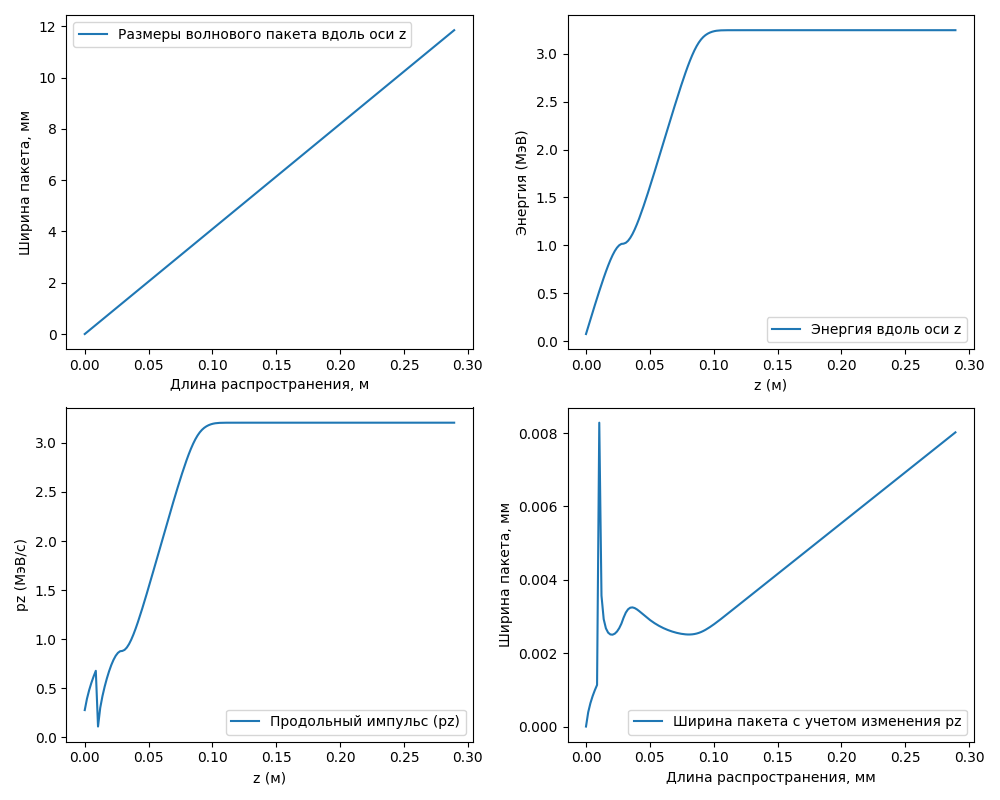
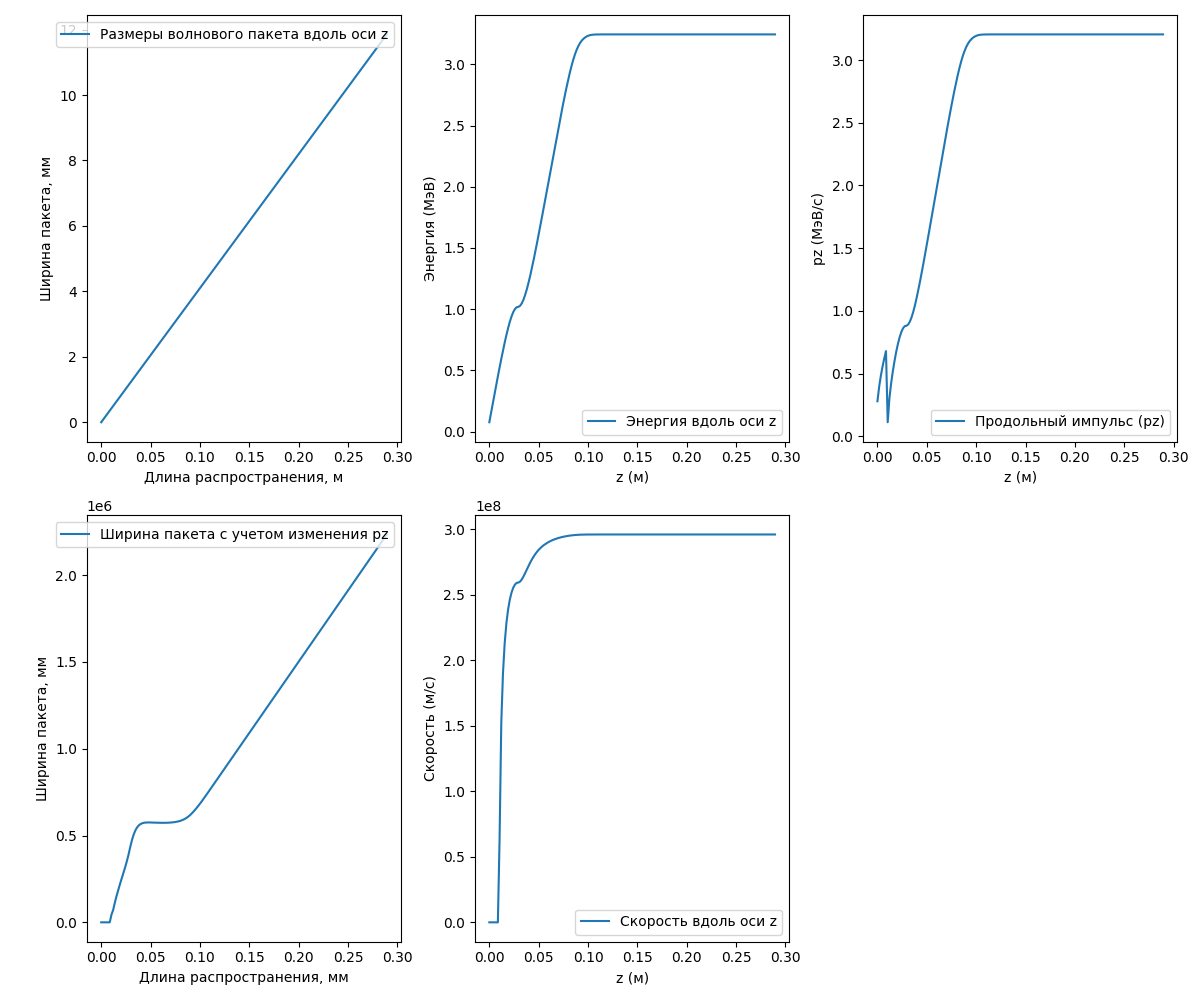
Добавил в test polygon профиль скорости, проинтегрировал скорость по z, получил значения z для pz с учетом отстования координаты импульса от пространственной.

diff --git a/test polygon.py b/test polygon.py
@@ -2,7 +2,6 @@ import numpy as np
 import matplotlib.pyplot as plt
 import scipy.constants as const
 from scipy import integrate as integ
-from scipy.interpolate import CubicSpline
 
 # Предварительно вычисляем константы
 HC_MeV_mm = 6.582 * 10**(-22) * 2.998 * 10**(11)  # Планк x скорость света в МэВ мм
@@ -18,12 +17,12 @@ e = const.e
 phi = np.pi / 2
 W_MeV = 4.6e-6
 f = 2856e6  # частота
-t = 10e-12  # время
+t = 350e-12  # время
 
 # Функция для расчета продольного импульса и скорости
 def longitudinal_momentum(W_MeV, Me_MeV, c):
     if W_MeV <= Me_MeV:
-        pz_MeV = np.sqrt(Me_MeV - W_MeV)
+        pz_MeV = np.sqrt(2 * Me_MeV * W_MeV)
         v = pz_MeV / (Me_MeV * c)
     elif W_MeV <= 10 * Me_MeV:
         under_sqrt = W_MeV**2 - Me_MeV**2
@@ -44,9 +43,7 @@ def transverse_momentum(r0):
 
 # Длина волны де Бройля
 def de_broglie_wavelength(pz):
-    if pz == 0:
-        return np.nan  # избегаем деления на ноль
-    return HC_MeV_mm / pz
+    return HC_MeV_mm / pz if pz > 0 else np.nan
 
 # Средний начальный размер пакета, мм
 def rho_mid(r0, M):
@@ -54,7 +51,7 @@ def rho_mid(r0, M):
 
 # Угол раскрытия электрона
 def theta(pt, pz):
-    return pt / pz * 180 / np.pi
+    return pt / pz * 180 / np.pi if pz > 0 else np.nan
 
 # Расплывание в ближней зоне
 def fresnel_zone_packet_width(z, ldb, rho_mid0, M):
@@ -76,8 +73,6 @@ def real_packet_width(z_values, W_MeV, r0, n, l):
     M = fundamental_mode(n, l)
     pz, _ = longitudinal_momentum(W_MeV, ME_MeV, c)
     ldb = de_broglie_wavelength(pz)
-    if np.isnan(ldb):
-        return np.nan * np.ones_like(z_values)
     rho_mid0 = rho_mid(r0, M)
     ksi = coherence_length(rho_mid0)  # начальная длина когерентности
 
@@ -87,25 +82,28 @@ def real_packet_width(z_values, W_MeV, r0, n, l):
             width.append(fresnel_zone_packet_width(z, ldb, rho_mid0, M))
         else:
             width.append(far_field_packet_width(z, ldb, rho_mid0, M))
-
+    
     return width
 
-# Расчет ширины пакета для заданной длины с учетом изменения pz
-def real_packet_width_with_pz(z_values, pz_profile, r0, n, l):
+# Расчет ширины пакета для заданной длины с учетом изменения pz  
+def real_packet_width_with_pz(z_values, pz_profile, v_profile, r0, n, l):
     M = fundamental_mode(n, l)
+
+    # Интегрируем профиль скорости по z для создания new_z
+    new_z = integ.cumtrapz(v_profile, z_values, initial=0)  # Интегрирование скорости по z
     ldb_values = [de_broglie_wavelength(pz) for pz in pz_profile]
-    if np.isnan(ldb_values).any():
-        return np.nan * np.ones_like(z_values)
     rho_mid0 = rho_mid(r0, M)
     ksi = coherence_length(rho_mid0)  # начальная длина когерентности
 
     width_with_pz = []
-    for z, ldb in zip(z_values, ldb_values):
-        if z <= ksi:
+    for z, ldb in zip(new_z, ldb_values):
+        if np.isnan(ldb):
+            width_with_pz.append(np.nan)
+        elif z <= ksi:
             width_with_pz.append(fresnel_zone_packet_width(z, ldb, rho_mid0, M))
         else:
             width_with_pz.append(far_field_packet_width(z, ldb, rho_mid0, M))
-
+    
     return width_with_pz
 
 # Расчет расстояния для заданной ширины пакета
@@ -113,103 +111,86 @@ def distance_for_a_width(r0, r_fin, energy, n, l):
     M = fundamental_mode(n, l)
     pz, _ = longitudinal_momentum(energy, ME_MeV, const.c)
     ldb = de_broglie_wavelength(pz)
-    if np.isnan(ldb):
-        return np.nan
     rho_mid0 = rho_mid(r0, M)
     return (2 * np.pi * r_fin * rho_mid0) / (ldb * M)
-
-# Построение графиков
-def plot_graph(x, y, xlabel, ylabel, title, filename=None):
-    plt.plot(x, y, label=title)
-    plt.xlabel(xlabel)
-    plt.ylabel(ylabel)
-    plt.legend()
-    if filename:
-        plt.savefig(filename, dpi=600)
-
-# Функция для построения общей картинки со всеми графиками
-def plot_all_graphs(z, r_mid, energy_profile, pz_profile, r_mid_with_pz):
-    plt.figure(figsize=(10, 8))
+   
+# Функция для построения общей картинки со всеми графиками (добавлен новый график)
+def plot_all_graphs(z, r_mid, energy_profile, pz_profile, r_mid_with_pz, v_profile):
+    plt.figure(figsize=(12, 10))
 
     # График 1: Размеры волнового пакета вдоль оси z
-    plt.subplot(2, 2, 1)
+    plt.subplot(2, 3, 1)
     plt.plot(z, r_mid, label="Размеры волнового пакета вдоль оси z")
     plt.xlabel("Длина распространения, м")
     plt.ylabel("Ширина пакета, мм")
     plt.legend()
 
     # График 2: Энергия вдоль оси z
-    plt.subplot(2, 2, 2)
+    plt.subplot(2, 3, 2)
     plt.plot(z, energy_profile, label="Энергия вдоль оси z")
     plt.xlabel('z (м)')
     plt.ylabel('Энергия (МэВ)')
     plt.legend()
 
     # График 3: Продольный импульс (pz)
-    plt.subplot(2, 2, 3)
+    plt.subplot(2, 3, 3)
     plt.plot(z, pz_profile, label="Продольный импульс (pz)")
     plt.xlabel('z (м)')
     plt.ylabel('pz (МэВ/c)')
     plt.legend()
 
     # График 4: Ширина пакета с учетом изменения pz
-    plt.subplot(2, 2, 4)
+    plt.subplot(2, 3, 4)
     plt.plot(z, r_mid_with_pz, label="Ширина пакета с учетом изменения pz")
     plt.xlabel("Длина распространения, мм")
     plt.ylabel("Ширина пакета, мм")
     plt.legend()
 
+    # График 5: Скорость вдоль оси z
+    plt.subplot(2, 3, 5)
+    plt.plot(z, v_profile, label="Скорость вдоль оси z")
+    plt.xlabel('z (м)')
+    plt.ylabel('Скорость (м/с)')
+    plt.legend()
+
     plt.tight_layout()
+    plt.savefig("result.png")
     plt.show()
 
 # Основной блок
 r0 = 1e-9  # размер пакета в м
 n = 3
 l = 1
+step_of_z = (z[1] - z[0])
+length = z[-1]
 
 # Расчет импульса и скорости
 pz_MeV, v = longitudinal_momentum(W_MeV, ME_MeV, c)
 
-print(f"Initial pz_MeV: {pz_MeV}")
-print(f"Initial velocity: {v}")
-
 if np.isnan(v) or v == 0:
     print("Ошибка: скорость v равна NaN или нулю.")
-    dE = energy_change_profile = pz_profile = np.nan * np.ones_like(z)
+    dE = energy_change_profile = pz_profile = v_profile = np.nan * np.ones_like(z)
 else:
     denominator = f * np.mean(z) / (2 * v) if v != 0 else 1
     T = np.sin(denominator) / denominator if denominator != 0 else 0
-
+    
     try:
-        # Интерполяция кубическими сплайнами
-        cs = CubicSpline(z, Ez)
-        z_interp = np.linspace(z.min(), z.max(), num=1000)
-        Ez_interp = cs(z_interp)
-        
-        # Интеграция методом трапеций по интерполированным данным
-        integral_result = integ.trapz(Ez_interp, z_interp)
+        integral_result = integ.simps(Ez, z)
         dE = e * integral_result * T * np.cos(f * t + phi)
-
-        delta_z = z[1] - z[0]
+        
+        delta_z = (z[1] - z[0])
         energy_profile = np.cumsum(Ez * delta_z) + W_MeV
+        
+        energy_change_profile = energy_profile - W_MeV + dE
+        pz_profile = np.array([longitudinal_momentum(E, ME_MeV, c)[0] for E in energy_profile])
+        v_profile = np.array([longitudinal_momentum(E, ME_MeV, c)[1] for E in energy_profile])
+        
+    except Exception as ex:
+        print(f"Ошибка при вычислении интеграла: {ex}")
+        dE = energy_change_profile = pz_profile = v_profile = np.nan * np.ones_like(z)
 
-        energy_change_profile = energy_profile - W_MeV
-        pz_profile = [longitudinal_momentum(e, ME_MeV, c)[0] for e in energy_profile]
+r_mid = real_packet_width(z, W_MeV, r0, n, l)
+r_mid_with_pz = real_packet_width_with_pz(z, pz_profile, v_profile, r0, n, l)
 
-        # Расчет размеров волнового пакета
-        r_mid = real_packet_width(z, W_MeV, r0, n, l)
-        r_mid_with_pz = real_packet_width_with_pz(z, pz_profile, r0, n, l)
-
-        # Проверка переменных перед вызовом функции plot_all_graphs
-        print(f"r_mid: {r_mid}")
-        print(f"r_mid_with_pz: {r_mid_with_pz}")
-
-        # Построение графиков
-        plot_all_graphs(z, r_mid, energy_profile, pz_profile, r_mid_with_pz)
-        plot_graph(z, r_mid, "Длина распространения, м", "Ширина пакета, мм", "Размеры волнового пакета вдоль оси z", 'filename.png')
-        plot_graph(z, energy_profile, 'z (м)', 'Энергия (МэВ)', 'Энергия вдоль оси z')
-        plot_graph(z, pz_profile, 'z (м)', 'pz (МэВ/c)', 'Продольный импульс (pz)')
-        plot_graph(z, r_mid_with_pz, "Длина распространения, м", "Ширина пакета, мм", "Ширина пакета с учетом изменения pz", 'width_with_pz.png')
-
-    except Exception as e:
-        print(f"Ошибка при расчете: {e}")   
+# Построение общей картинки со всеми графиками (добавлен v_profile)
+plot_all_graphs(z, r_mid, energy_profile, pz_profile, r_mid_with_pz, v_profile)

diff --git a/quantum beam dynamics.py b/quantum beam dynamics.py
@@ -17,7 +17,7 @@ e = const.e
 phi = np.pi / 2
 W_MeV = 4.6e-6
 f = 2856e6  # частота
-t = 10e-12  # время
+t = 350e-12  # время
 
 # Функция для расчета продольного импульса и скорости
 def longitudinal_momentum(W_MeV, Me_MeV, c):
@@ -88,6 +88,9 @@ def real_packet_width(z_values, W_MeV, r0, n, l):
 # Расчет ширины пакета для заданной длины с учетом изменения pz 
 def real_packet_width_with_pz(z_values, pz_profile, r0, n, l):
     M = fundamental_mode(n, l)
+    pz, v = longitudinal_momentum(W_MeV, ME_MeV, c)
+    integ_result = integ.simps(v, z_values)
+    print(integ_result)
     ldb_values = [de_broglie_wavelength(pz) for pz in pz_profile]
     rho_mid0 = rho_mid(r0, M)
     ksi = coherence_length(rho_mid0)  # начальная длина когерентности
@@ -151,7 +154,7 @@ def plot_all_graphs(z, r_mid, energy_profile, pz_profile, r_mid_with_pz):
 r0 = 1e-9  # размер пакета в м
 n = 3
 l = 1
-step_of_z = z[1] - z[0]
+step_of_z = (z[1] - z[0])
 length = z[-1]
 
 # Расчет импульса и скорости
@@ -168,7 +171,7 @@ else:
         integral_result = integ.simps(Ez, z)
         dE = e * integral_result * T * np.cos(f * t + phi)
         
-        delta_z = z[1] - z[0]
+        delta_z = (z[1] - z[0])
         energy_profile = np.cumsum(Ez * delta_z) + W_MeV
         
         energy_change_profile = energy_profile - W_MeV + dE
